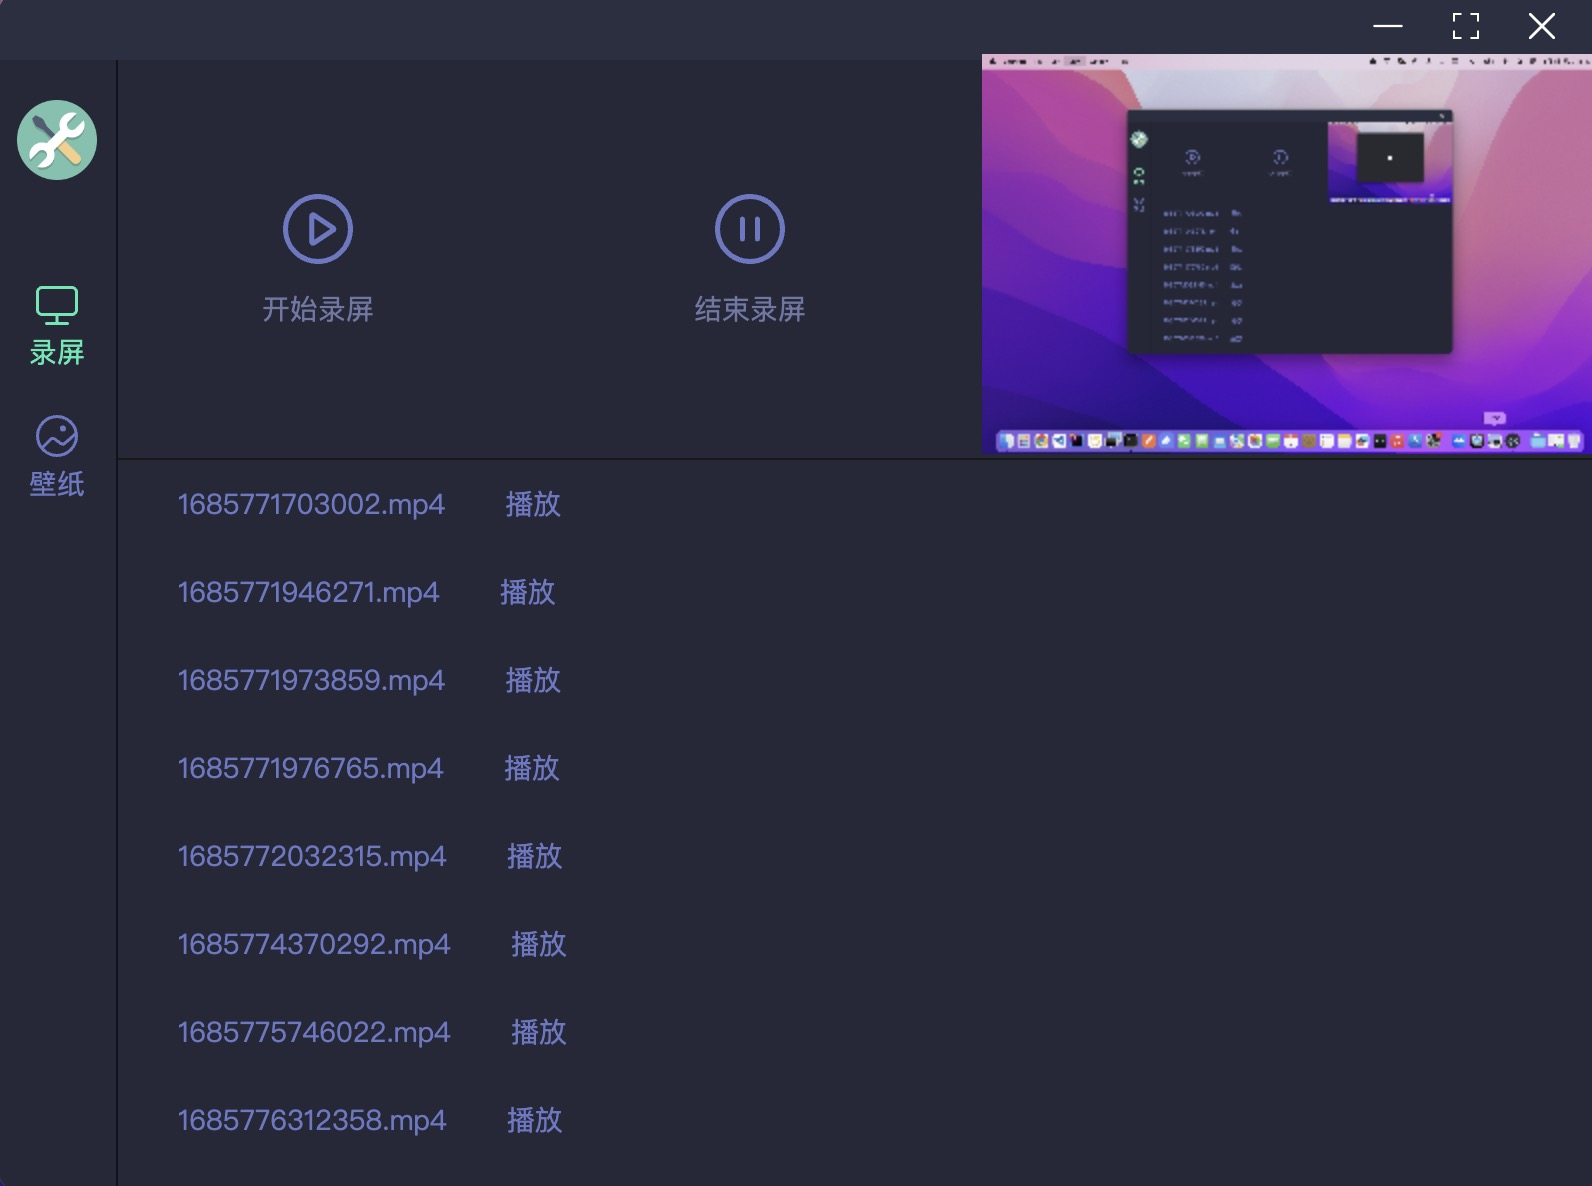
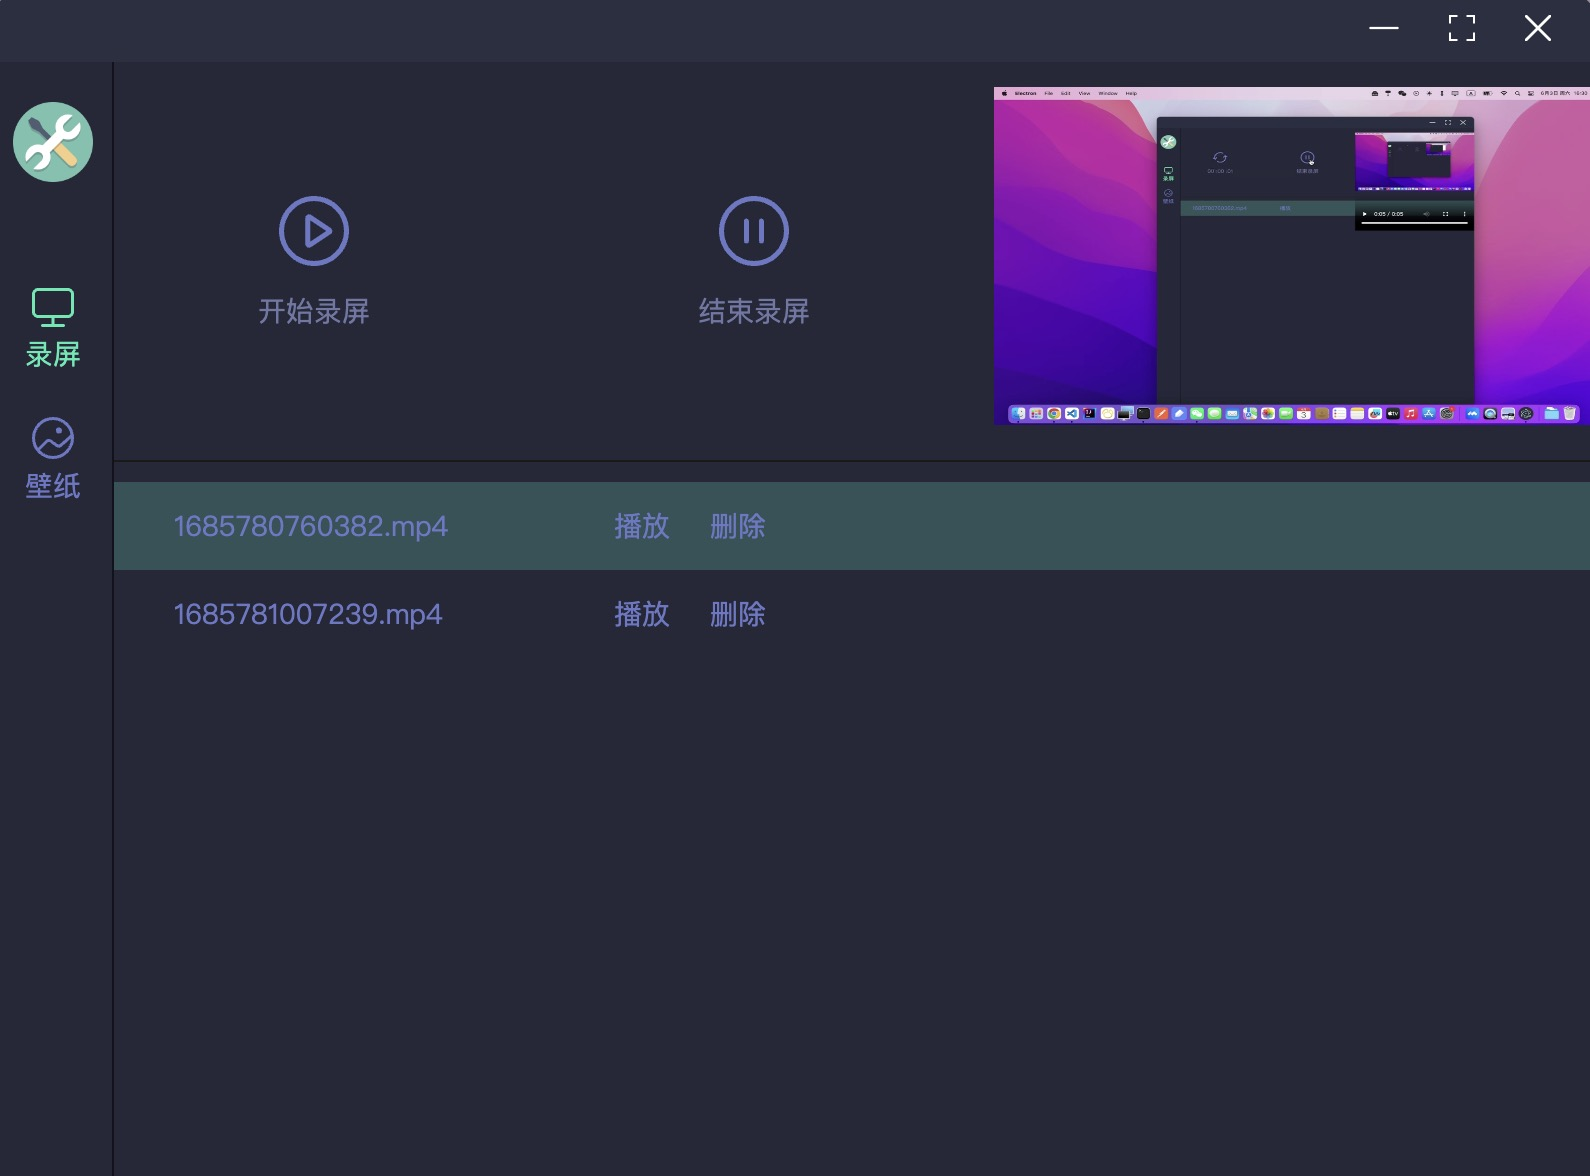
feat: record/httpServer.

diff --git a/src/views/Recorder2.vue b/src/views/Recorder2.vue
@@ -29,7 +29,14 @@
           class="screen__img"
           v-if="!state.recordUrl"
         />
-        <video :src="state.recordUrl" v-else></video>
+        <video
+          :src="`http://localhost:7778/${state.recordUrl}`"
+          v-else
+          class="screen__img"
+          width="300"
+          height="400"
+          autoplay
+        ></video>
       </div>
     </div>
 
@@ -41,7 +48,8 @@
         @click="onSelect(item, i)"
       >
         <div class="record__name">{{ item.name }}</div>
-        <div class="record__name" @click="onPlay(item)">播放</div>
+        <div class="record__play" @click="onPlay(item)">播放</div>
+        <div class="record__del" @click="onDelete(item)">删除</div>
         <!-- <div class="record__time">{{ item.time }}</div>
         <div class="record__size">{{ item.size }}</div> -->
       </div>
@@ -53,6 +61,7 @@
 import { reactive, onMounted, onUnmounted } from "vue";
 const { ipcRenderer } = require("electron");
 import { useTimer } from "../utils/hooks/useTimer";
+import { httpServer } from "../server/server";
 
 const fs = require("fs");
 const path = require("path");
@@ -72,6 +81,7 @@ const state = reactive<any>({
 onMounted(() => {
   initPreviewImg();
   initRecordList();
+  httpServer();
 });
 onUnmounted(() => {
   clearTimer();
@@ -148,7 +158,6 @@ const startRecord = async (stream: any) => {
       });
       saveVideo(blob).then(() => {
         console.log("保存成功 ");
-
         state.recordList = readVideo();
       });
     };
@@ -218,6 +227,8 @@ const onSelect = (item: any, i: number) => {
 const onPlay = (item: any) => {
   state.recordUrl = item.name;
 };
+
+const onDelete = (item: any) => {};
 
 // const init = async () => {
 //   const stream = await navigator.mediaDevices.getUserMedia({
@@ -296,6 +307,7 @@ section {
 
   .record__list {
     box-sizing: border-box;
+    padding-top: 10px;
 
     .record__title {
       padding: 12px 30px;
@@ -312,7 +324,20 @@ section {
       @include flex-r-start-center();
 
       .record__name {
-        margin-right: 30px;
+        width: 220px;
+      }
+
+      .record__play {
+        &:hover {
+          color: #76c2af;
+        }
+      }
+
+      .record__del {
+        margin-left: 20px;
+        &:hover {
+          color: rgb(255, 72, 105);
+        }
       }
 
       .record__time {

diff --git a/src/server/server.ts b/src/server/server.ts
@@ -1,0 +1,30 @@
+const http = require("http");
+const fs = require("fs");
+const path = require("path");
+const url = require("url");
+
+const httpServer = () => {
+  const server = http.createServer((req: any, res: any) => {
+    const pathName = path.join("/Users/xiawu/Downloads/video", req.url);
+
+    fs.readFile(pathName, (err: any, data: any) => {
+      if (err) {
+        res.writeHead(404, {
+          "Content-Type": "text/plain;charset=utf-8",
+        });
+        res.write("404 Not Found");
+        res.end();
+      } else {
+        res.writeHead(200, {
+          "Content-Type": Buffer.byteLength(data),
+        });
+        res.write(data);
+        res.end("ok");
+      }
+    });
+  });
+
+  server.listen(7778, () => "server is running");
+};
+
+export { httpServer };
